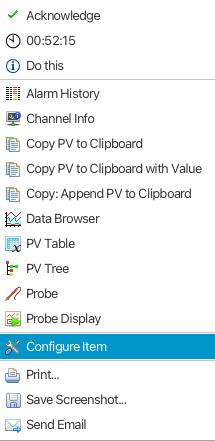
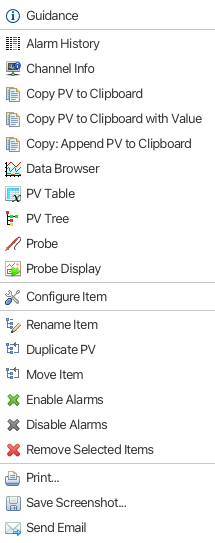
Updates to describe alarm view context menu

Changed region(s): [[0.0, 0.0, 1.0, 1.0]]

diff --git a/app/alarm/ui/doc/index.rst b/app/alarm/ui/doc/index.rst
@@ -410,13 +410,27 @@ Where the include component is identified in the inclusion file with a DID decla
       </component>
   </config>
 
+Context Menu
+------------
+
+In the Alarm Tree and the Alarm Table views user may right click on an alarm item to launch a context menu:
+
+.. image:: images/context_menu.png
+    :width: 20%
+
+The top item ("Guidance" in the screenshot) will launch a dialog showing the guidance text for the alarm item.
+
+With the Disable Alarms menu item (Alarm Tree only) user may disable an alarm item, or all alarms in the sub-tree of a
+node. The alarm(s) will stay disabled until explicitly enabled by the user. See also notes below for
+more information on how disabled alarms are handled upon import of the alarm configuration XML file.
+
 Configuration Editor
--------------------
+--------------------
 
 In the Alarm Tree and the Alarm Table views user may right click on an alarm item to launch the configuration
 editor dialog:
 
-.. image:: images/context_menu.png
+.. image:: images/context_menu_config.png
     :width: 20%
 
 In this view user may update all settings defined in the alarm configuration XML file:
